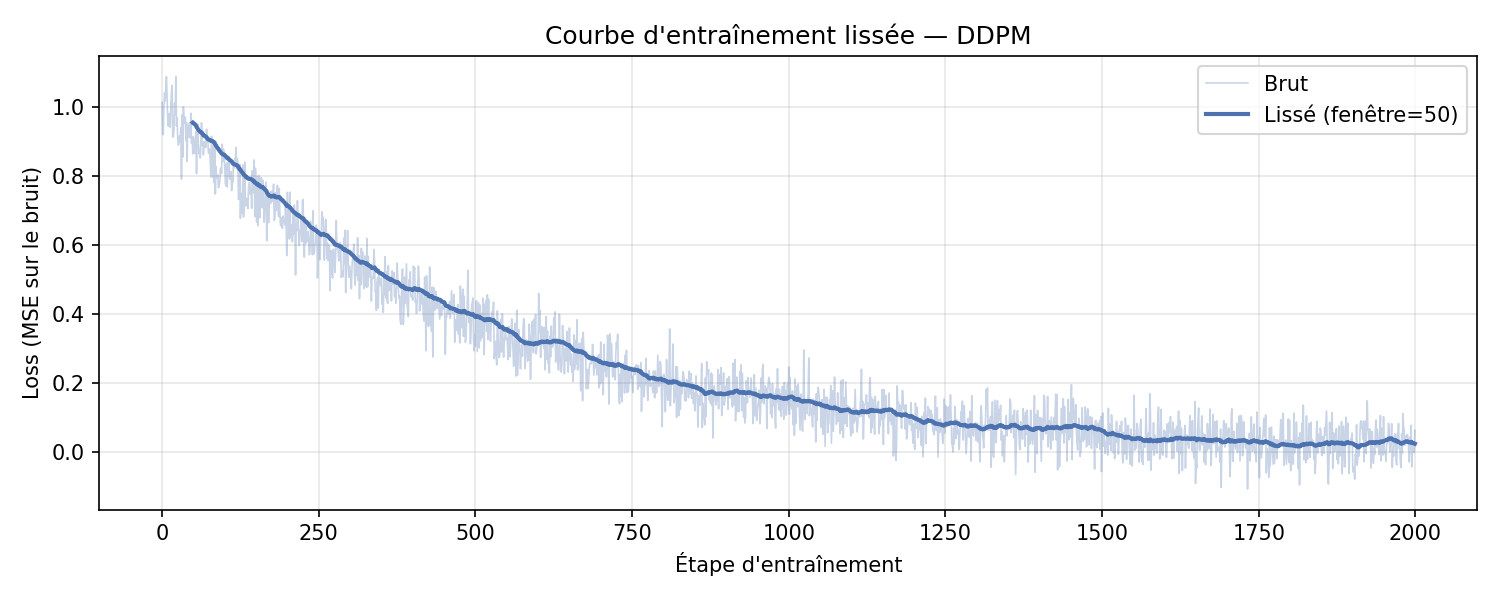
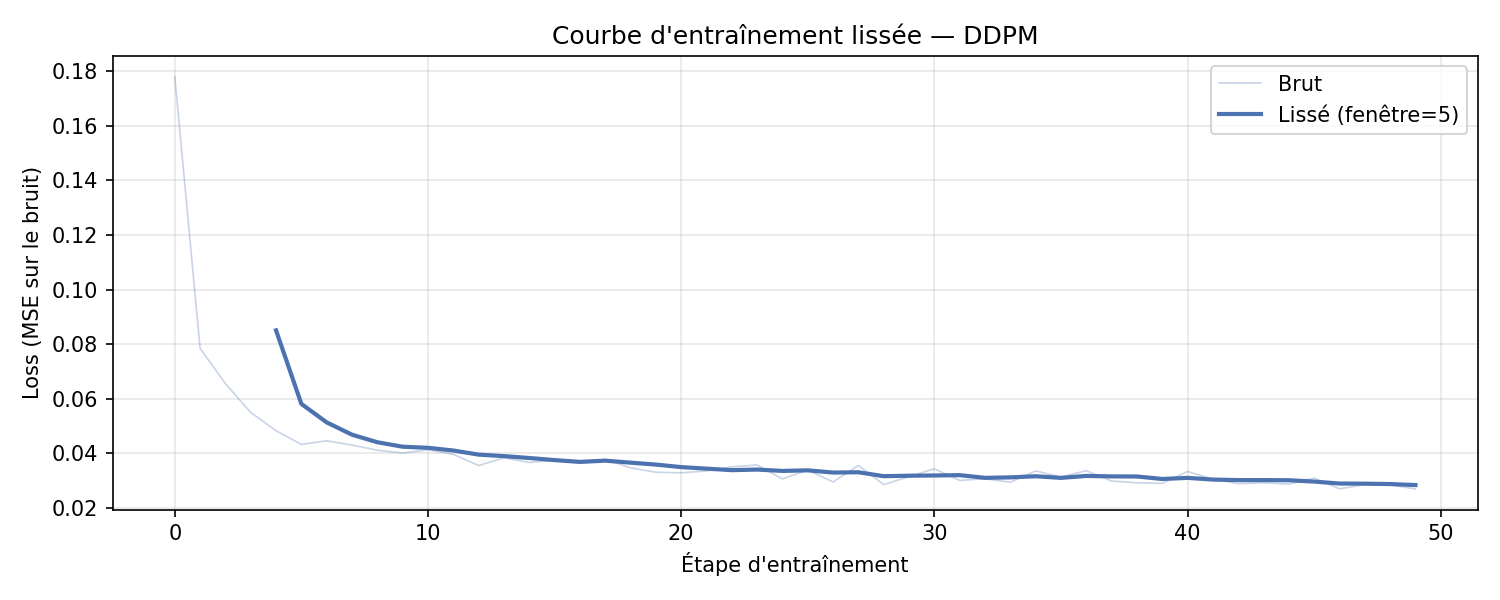
partie 4 fini

diff --git a/generate_samples.py b/generate_samples.py
@@ -1,18 +1,20 @@
 """
 Script pour générer des images avec le modèle entraîné.
 """
-
 import torch
 import sys
 import os
 import glob
+import csv
 
 # Add paths
 sys.path.insert(0, os.path.dirname(__file__))
 
 from model_P1.model import DPMModel
-from sampling_P3.sample import DDPMSampler
-from eval_P4.visualize import save_image_grid
+from sampling_P3.ddim import DDIMSampler
+from eval_P4.visualize import save_image_grid, save_denoising_gif, plot_denoising_steps, compare_real_vs_generated
+from eval_P4.metrics import pixel_stats, plot_loss_curve, save_images_for_fid
+from data_P2.dataset import charger_f1
 
 # Configuration
 CONFIG = {
@@ -27,19 +29,17 @@ CONFIG = {
 
 def main():
     print(f"Génération sur : {CONFIG['device']}")
-    
-    # Charger le checkpoint le plus récent
+
+    # Charger le checkpoint
     checkpoint_dir = "checkpoints/"
     checkpoints = glob.glob(os.path.join(checkpoint_dir, "*.pth"))
     if not checkpoints:
-        print("❌ Aucun checkpoint trouvé dans", checkpoint_dir)
-        return
-    
+        # cherche à la racine aussi
+        checkpoints = glob.glob("*.pth")
     latest_checkpoint = max(checkpoints, key=os.path.getctime)
-    print(f"✓ Chargement du checkpoint : {latest_checkpoint}")
-    
+    print(f"✓ Chargement : {latest_checkpoint}")
     checkpoint = torch.load(latest_checkpoint, map_location=CONFIG["device"])
-    
+
     # Créer le modèle
     model = DPMModel(
         in_channels=CONFIG["channels"],
@@ -50,25 +50,42 @@ def main():
     model.load_state_dict(checkpoint["model_state"])
     model.to(CONFIG["device"])
     model.eval()
-    
-    print(f"✓ Modèle chargé — {sum(p.numel() for p in model.parameters()):,} paramètres")
-    
-    # Créer le sampler
+
     betas = torch.linspace(0.0001, 0.02, CONFIG["T"])
-    sampler = DDPMSampler(model, CONFIG["T"], betas, torch.device(CONFIG["device"]))
-    
-    # Générer les images
-    print(f"\n🎨 Génération de {CONFIG['num_samples']} images...")
-    shape = (CONFIG["num_samples"], CONFIG["channels"], CONFIG["image_size"], CONFIG["image_size"])
-    samples = sampler.sample(shape)
-    
-    # Sauvegarder la grille
+    sampler = DDIMSampler(model, CONFIG["T"], betas, torch.device(CONFIG["device"]))
+
     os.makedirs("results", exist_ok=True)
-    save_path = "results/generated_samples.png"
-    save_image_grid(samples, save_path, nrow=4, title="Images générées par DDPM")
-    
-    print(f"✓ Grille sauvegardée → {save_path}")
-    print("\n✓ Génération terminée !")
+
+    # 1. Générer les images
+    print(f"\n Génération de {CONFIG['num_samples']} images...")
+    shape = (CONFIG["num_samples"], CONFIG["channels"], CONFIG["image_size"], CONFIG["image_size"])
+    samples = sampler.sample(shape, ddim_steps=200)
+
+    # 2. Grille d'images
+    save_image_grid(samples, "results/generated_samples.png", nrow=4, title="Images générées par DDPM")
+
+    # 3. Métriques
+    pixel_stats(samples)
+    save_images_for_fid(samples, "results/fid_generated/")
+
+    # 4. Courbe de loss
+    if os.path.exists("logs/loss.csv"):
+        with open("logs/loss.csv", "r") as f:
+            rows = list(csv.DictReader(f))
+            loss_history = [float(r["loss_moyenne"]) for r in rows]
+        plot_loss_curve(loss_history, "results/loss_curve.png")
+        print("✓ Courbe de loss sauvegardée")
+
+    # 5. Comparaison réel vs généré (si les données F1 sont disponibles)
+    if os.path.exists("./data_f1/train"):
+        loader, _ = charger_f1(batch_size=8, image_size=CONFIG["image_size"])
+        real, _ = next(iter(loader))
+        compare_real_vs_generated(real, samples[:8], n=8, save_path="results/real_vs_generated.png")
+        print("✓ Comparaison sauvegardée")
+    else:
+        print("⚠ data_f1/ introuvable — comparaison ignorée")
+
+    print("\n✓ Terminé ! Regarde dans results/")
 
 if __name__ == "__main__":
     main()

diff --git a/eval_P4/visualize.py b/eval_P4/visualize.py
@@ -5,13 +5,17 @@ import matplotlib.pyplot as plt
 import imageio
 from torchvision.utils import make_grid
 from PIL import Image
+import sys
+sys.path.insert(0, ".")
 
 # utilitaire interne
 def _to_uint8(tensor: torch.Tensor) -> np.ndarray:
     img = (tensor.clamp(-1, 1) + 1) / 2       # → [0, 1]
     img = (img * 255).byte().cpu().numpy()     # → [0, 255]
-    if img.ndim == 3 and img.shape[0] == 1:
-        img = img[0]                            # (1,H,W) → (H,W) pour images grises
+    if img.ndim == 3 and img.shape[0] == 3:
+        img = img.transpose(1, 2, 0)           # (3,H,W) → (H,W,3) pour RGB
+    elif img.ndim == 3 and img.shape[0] == 1:
+        img = img[0]                            # (1,H,W) → (H,W) pour gris
     return img
 
 # grille d'image générées
@@ -103,30 +107,3 @@ def compare_real_vs_generated(real: torch.Tensor,
     plt.savefig(save_path, dpi=150, bbox_inches="tight")
     plt.close()
     print(f"[Visualize] Comparaison sauvegardée → {save_path}")
-
-# test rapide (données simulées)
-if __name__ == "__main__":
-    print("Test de visualize.py avec données simulées\n")
-
-    # Simule 64 images générées (bruit aléatoire pour tester)
-    fake_generated = torch.randn(64, 1, 28, 28)
-    fake_real      = torch.randn(64, 1, 28, 28)
-
-    # Test grille
-    save_image_grid(fake_generated, "eval_P4/outputs/test_grid.png", nrow=8, title="Test grille")
-
-    # Test GIF (simule 1000 frames de débruitage)
-    # Passage progressif de bruit pur (t=1000) vers "image" (t=0)
-    fake_frames = [
-        torch.randn(1, 28, 28) * (1 - i / 999) + torch.zeros(1, 28, 28) * (i / 999)
-        for i in range(1000)
-    ]
-    save_denoising_gif(fake_frames, "eval_P4/outputs/test_denoising.gif", fps=20)
-
-    # Test étapes
-    plot_denoising_steps(fake_frames, n_steps_shown=10, save_path="eval_P4/outputs/test_steps.png")
-
-    # Test comparaison
-    compare_real_vs_generated(fake_real, fake_generated, n=8)
-
-    print("\nTous les tests ont passé. Regarde dans eval_P4/outputs/")

diff --git a/eval_P4/metrics.py b/eval_P4/metrics.py
@@ -2,6 +2,7 @@ import os
 import torch
 import numpy as np
 import matplotlib.pyplot as plt
+import csv
 from torchvision.utils import save_image
 
 # statistiques
@@ -80,26 +81,18 @@ def compare_experiments(experiments: dict, save_path: str = "eval_P4/outputs/com
     plt.close()
     print(f"[Metrics] Comparaison sauvegardée → {save_path}")
 
-# tests sur données simulées
 if __name__ == "__main__":
     print("Test de metrics.py avec données simulées\n")
 
     # Simule un batch d'images générées
-    fake_images = torch.randn(64, 1, 28, 28)
+    fake_images = torch.randn(64, 3, 64, 64)
     pixel_stats(fake_images)
 
-    # Simule une loss qui descend
-    fake_loss = [1.0 * np.exp(-i / 500) + 0.05 * np.random.randn()
-                 for i in range(2000)]
-    plot_loss_curve(fake_loss, "eval_P4/outputs/loss_curve.png")
-    plot_loss_curve_smoothed(fake_loss, window=50, save_path="eval_P4/outputs/loss_curve_smooth.png")
+    with open("logs/loss.csv", "r") as f:
+        rows = list(csv.DictReader(f))
+        loss_history = [float(r["loss_moyenne"]) for r in rows]
 
-    # Simule deux expériences
-    loss_exp1 = [0.8 * np.exp(-i / 400) + 0.03 * np.random.randn() for i in range(2000)]
-    loss_exp2 = [0.9 * np.exp(-i / 700) + 0.03 * np.random.randn() for i in range(2000)]
-    compare_experiments({"lr=1e-3": loss_exp1, "lr=1e-4": loss_exp2})
-
-    # Sauvegarde images pour FID
-    save_images_for_fid(fake_images, "eval_P4/fid_data/generated/")
+    plot_loss_curve(loss_history, "eval_P4/outputs/loss_curve.png")
+    plot_loss_curve_smoothed(loss_history, window=5, save_path="eval_P4/outputs/loss_curve_smooth.png")
 
     print("\nTous les tests ont passé.")
